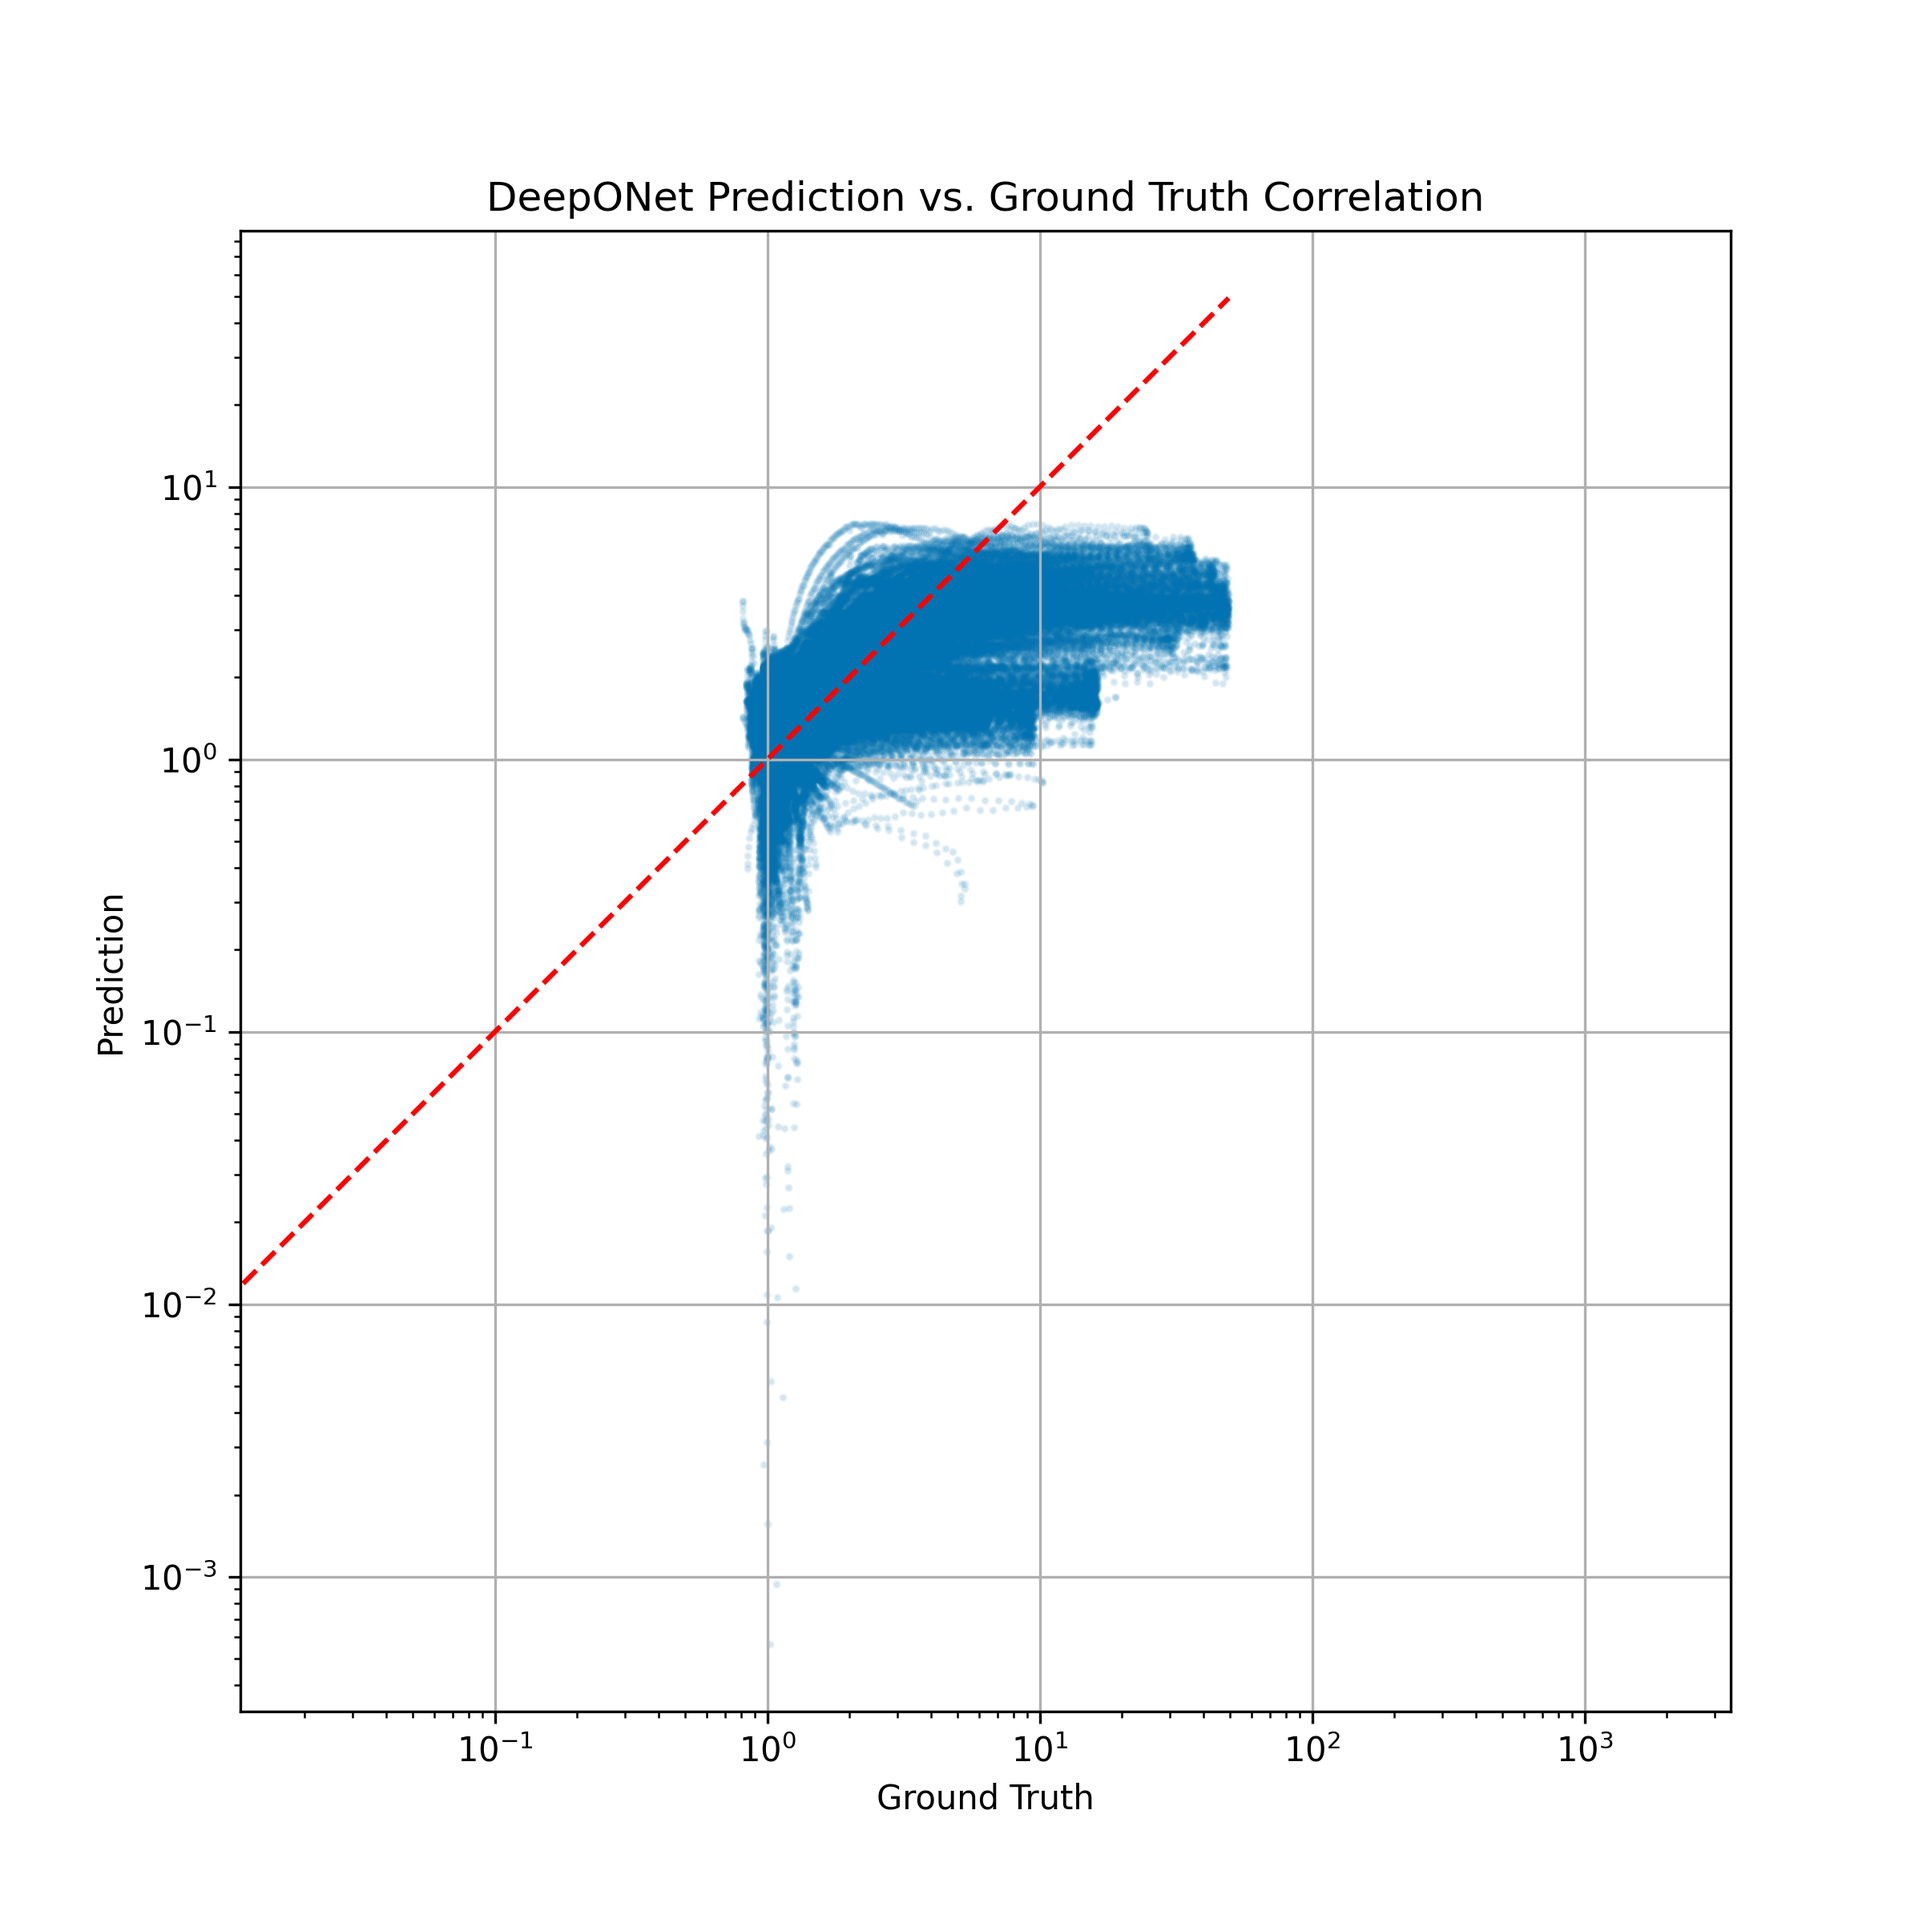
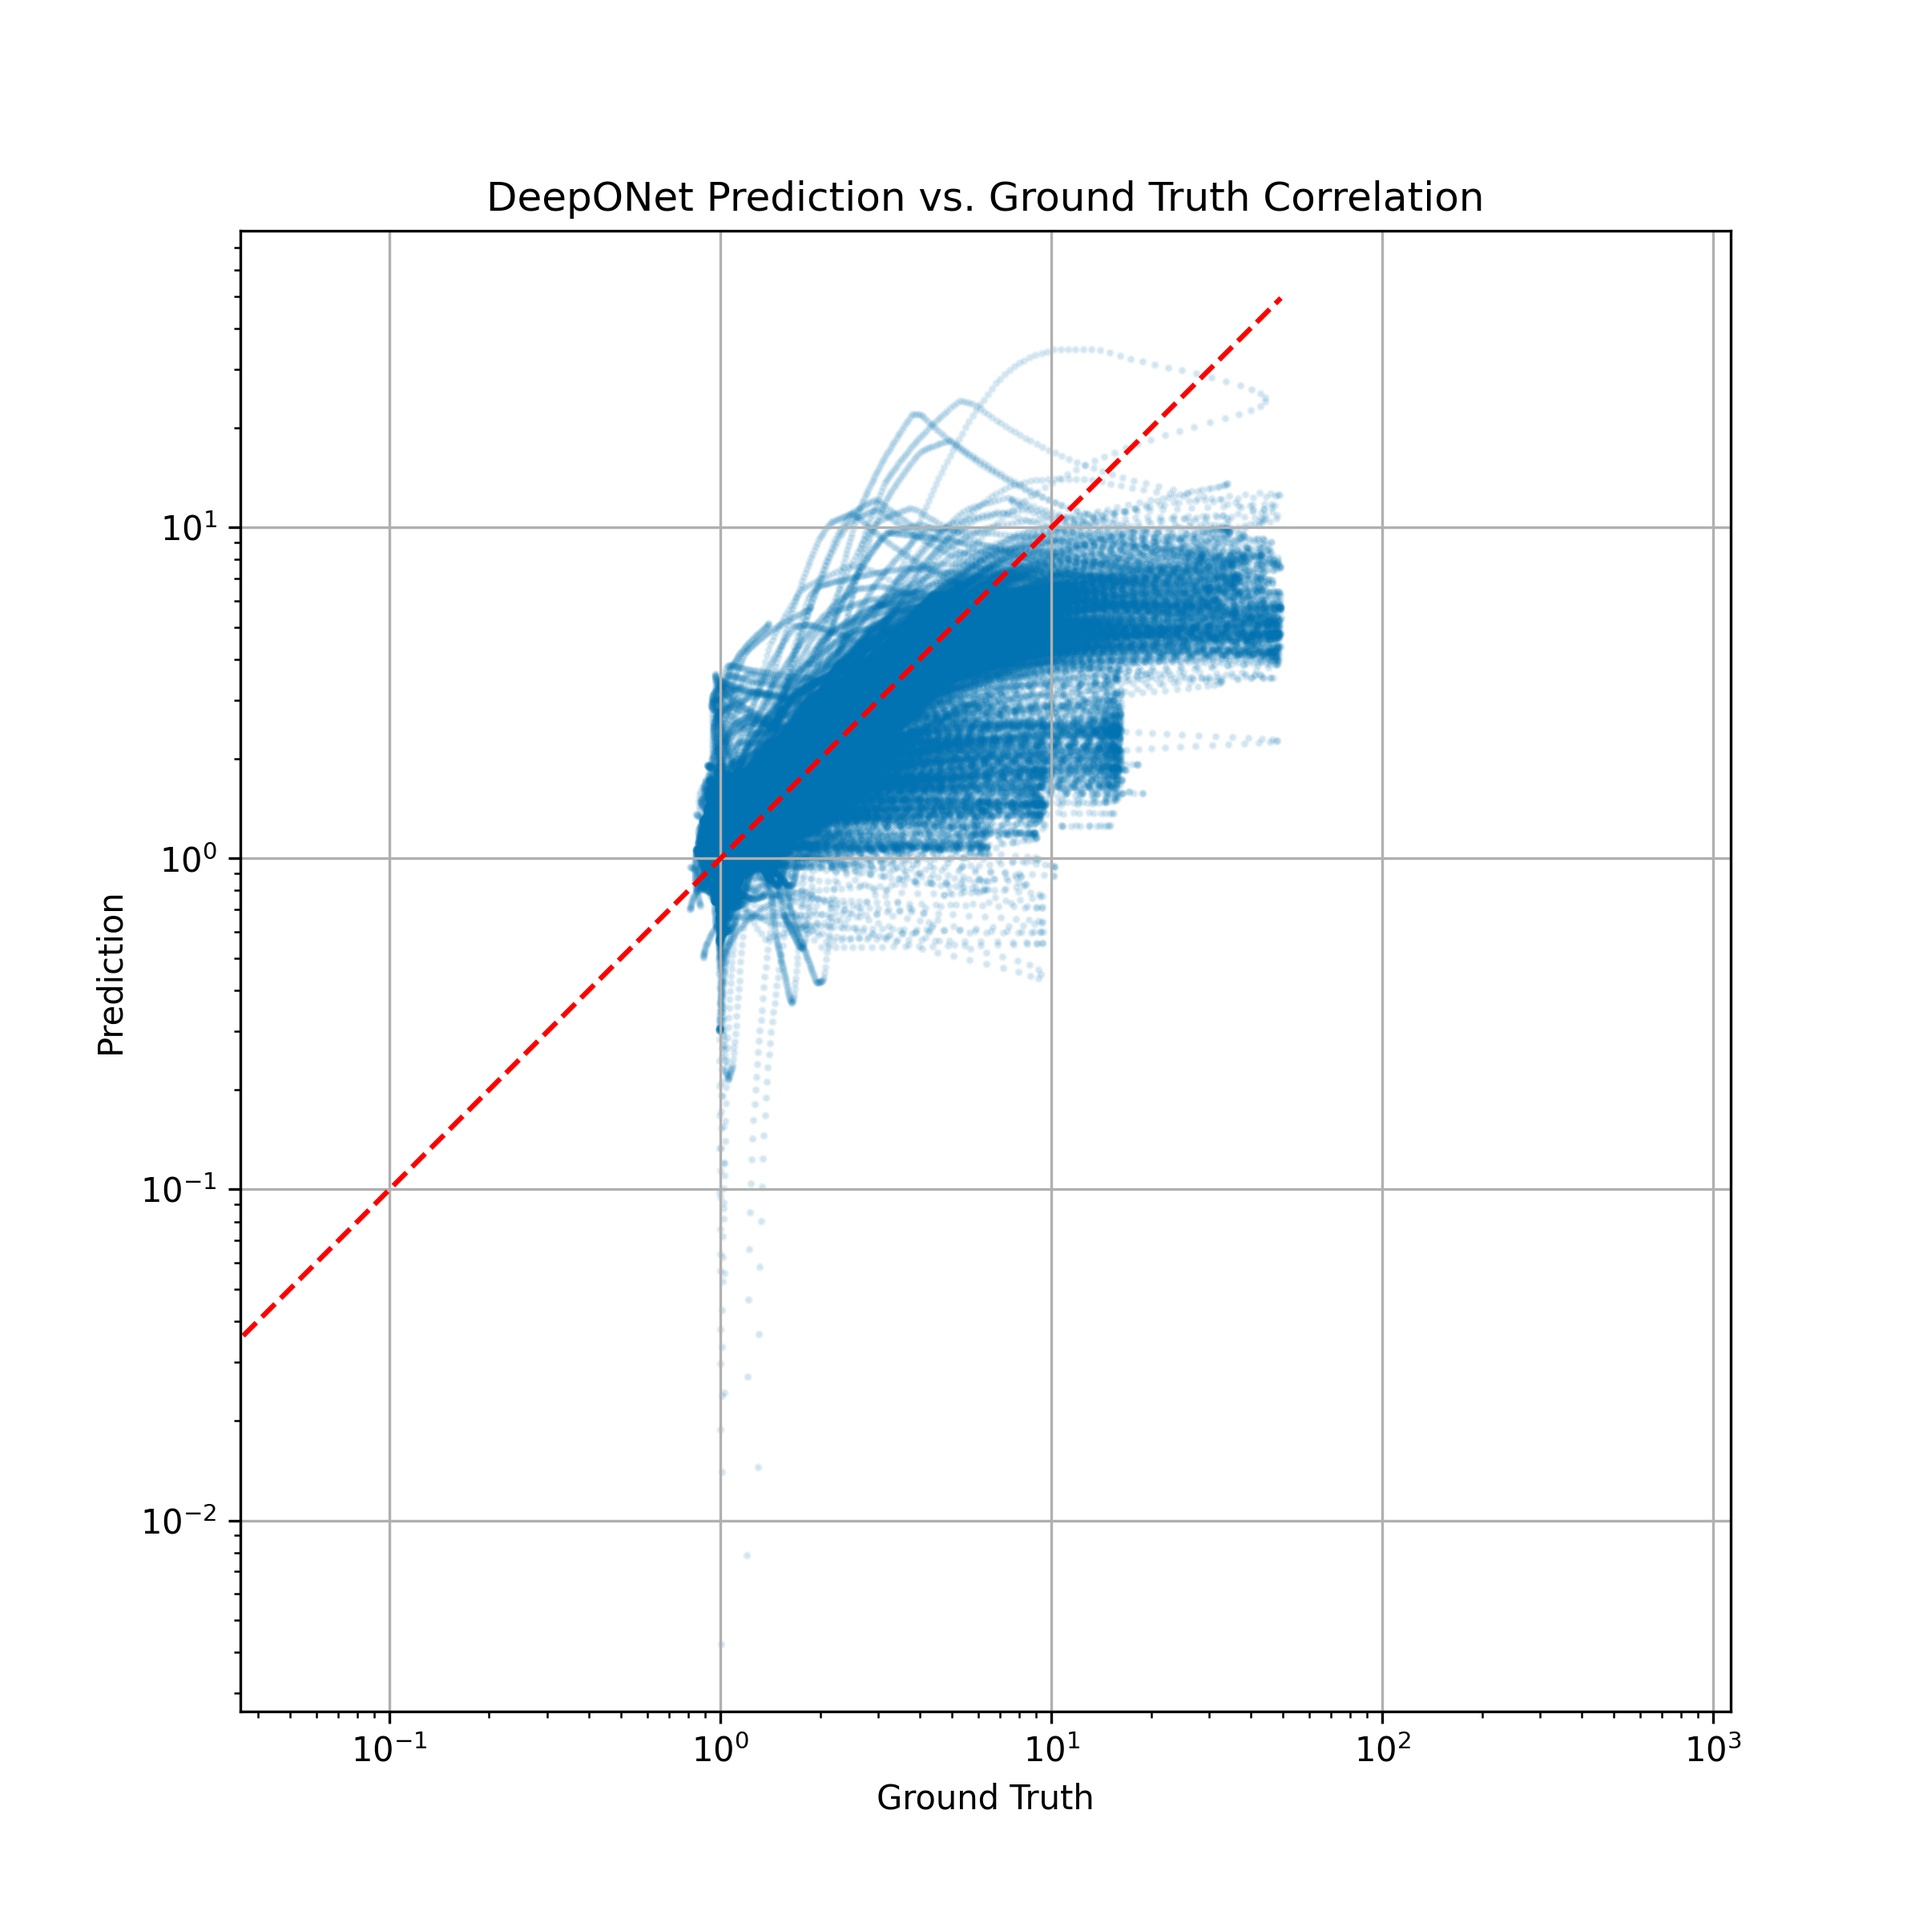
feat: Add ArcsinhScaler for data preprocessing; enhance evaluation metrics with Pearson correlation; update model training and evaluation flow

diff --git a/wave_surrogate/models/fno/evaluate.py b/wave_surrogate/models/fno/evaluate.py
@@ -14,7 +14,7 @@ from wave_surrogate.logging_setup import setup_logging
 logger = setup_logging()
 
 
-def evaluate_model(test_loader, freq_data):
+def evaluate_model(test_loader, freq_data, run=None):
     """Evaluates the model and generates plots."""
     encoder = Encoder(
         channels=config.ENCODER_CHANNELS,
@@ -51,14 +51,83 @@ def evaluate_model(test_loader, freq_data):
             all_inputs.append(inputs.cpu().numpy())
 
     test_loss /= len(test_loader.dataset)
-    logger.info(f"Test MSE Loss: {test_loss:.6f}")
 
     # Concatenate results from all batches
     all_predictions = np.vstack(all_predictions)
     all_targets = np.vstack(all_targets)
     all_inputs = np.vstack(all_inputs)
 
+    ## Compute Pearson correlation coefficient
+    pearson_corrs = [
+        np.corrcoef(all_targets[i], all_predictions[i])[0, 1]
+        for i in range(len(all_targets))
+    ]
+    mean_pearson = np.nanmean(pearson_corrs)
+
+    if run is not None:
+        run.log(
+            {
+                "test_mse_loss": test_loss,
+                "test_MAE_loss": np.mean(np.abs(all_targets - all_predictions)),
+                "test_R2_score": 1
+                - (
+                    np.sum((all_targets - all_predictions) ** 2)
+                    / np.sum((all_targets - np.mean(all_targets)) ** 2)
+                ),
+            }
+        )
+        run.log(
+            {
+                "mean_pearson_correlation": mean_pearson,
+                "median_pearson_correlation": np.nanmedian(pearson_corrs),
+                "std_pearson_correlation": np.nanstd(pearson_corrs),
+                "min_pearson_correlation": np.nanmin(pearson_corrs),
+                "max_pearson_correlation": np.nanmax(pearson_corrs),
+            }
+        )
+    logger.info(f"Test MSE Loss: {test_loss:.6f}")
+    logger.info(f"Mean Pearson Correlation: {mean_pearson:.4f}")
+
     # Generate plots
-    plot_predictions(freq_data, all_targets, all_predictions, all_inputs)
-    plot_correlation(all_targets, all_predictions)
-    plot_pearson_histogram(all_targets, all_predictions)
+    plot_predictions(
+        freq_data,
+        all_targets,
+        all_predictions,
+        all_inputs,
+        correlation_array=pearson_corrs,
+        save_path=config.RESULTS_SAVE_PATH,
+    )
+    plot_correlation(
+        all_targets,
+        all_predictions,
+        save_path=config.RESULTS_SAVE_PATH,
+    )
+    plot_pearson_histogram(
+        all_targets,
+        all_predictions,
+        save_path=config.RESULTS_SAVE_PATH,
+    )
+
+
+if __name__ == "__main__":
+    # Example usage (requires data loaders and frequency data)
+    import pickle
+
+    from data_loader import get_data_loaders
+
+    with open(config.TTF_PICKLE_PATH, "rb") as f:
+        ttf_data = np.array(pickle.load(f))
+
+    with open(config.VS_PICKLE_PATH, "rb") as f:
+        vs_profiles = np.array(pickle.load(f))
+
+    freq_data = np.genfromtxt(config.FREQ_PATH, delimiter=",")
+
+    # Convert numpy arrays to lists for the data loader
+    vs_list = [arr for arr in vs_profiles]
+    ttf_list = [arr for arr in ttf_data]
+
+    _, _, test_loader = get_data_loaders(vs_list, ttf_list, config.BATCH_SIZE)
+
+    evaluate_model(test_loader, freq_data)
+    pass

diff --git a/experiments/Multi-Input Operator/data_loader.py b/experiments/Multi-Input Operator/data_loader.py
@@ -17,7 +17,6 @@ import config
 import numpy as np
 import torch
 from joblib import dump as joblib_dump
-from sklearn.preprocessing import MinMaxScaler
 from torch.utils.data import DataLoader, Dataset, random_split
 
 from wave_surrogate.logging_setup import setup_logging
@@ -33,6 +32,33 @@ def pad_array(arr: np.ndarray, max_len: int) -> np.ndarray:
     out = np.zeros(max_len, dtype=float)
     out[: len(arr)] = arr
     return out
+
+
+class ArcsinhScaler:
+    """
+    Custom scaler that applies arcsinh transformation followed by MinMax scaling.
+    This is useful for data with a wide dynamic range including negative values.
+    """
+
+    def __init__(self):
+        self.fitted = False
+
+    def fit(self, data: np.ndarray):
+        """Fit the scaler on the provided data."""
+        self.fitted = True
+        return self
+
+    def transform(self, X: np.ndarray) -> np.ndarray:
+        """Apply arcsinh transformation followed by MinMax scaling."""
+        if not self.fitted:
+            raise RuntimeError("Scaler has not been fitted")
+        return np.arcsinh(X)
+
+    def inverse_transform(self, data: np.ndarray) -> np.ndarray:
+        """Inverse transform the data back to original scale."""
+        if not self.fitted:
+            raise RuntimeError("Scaler has not been fitted")
+        return np.sinh(data)
 
 
 class DeepONetDataset(Dataset):
@@ -150,7 +176,7 @@ def get_data_loaders(
     train_indices = train_subset.indices
     train_ttf_arr = full_ttf_arr[train_indices]
 
-    scaler = MinMaxScaler()
+    scaler = ArcsinhScaler()
     scaler.fit(train_ttf_arr)  # scales each column (frequency) across samples
 
     # Transform all data

diff --git a/wave_surrogate/models/fno/config.py b/wave_surrogate/models/fno/config.py
@@ -1,6 +1,8 @@
 # config.py
 """Centralized configuration for the FNO model."""
 
+from pathlib import Path
+
 import torch
 
 # --- Data Configuration ---
@@ -9,6 +11,8 @@ VS_PICKLE_PATH = "data/1D Profiles/TF_HLC/Vs_values_1000.pt"
 TTF_PICKLE_PATH = "data/1D Profiles/TF_HLC/TTF_data_1000.pt"
 FREQ_PATH = "data/1D Profiles/TF_HLC/TTF_freq_1000.csv"
 MODEL_SAVE_PATH = "outputs/models/Soil_Bedrock/best_fno_ttf_model.pt"
+RESULTS_SAVE_PATH = "outputs/figures/model"
+Path(RESULTS_SAVE_PATH).mkdir(parents=True, exist_ok=True)
 
 # --- Data Preprocessing ---
 F0_FILTER_THRESHOLD = 2.0  # Filter out profiles with f0 >= this value

diff --git a/wave_surrogate/models/fno/utils.py b/wave_surrogate/models/fno/utils.py
@@ -48,6 +48,7 @@ def plot_predictions(
     test_targets,
     test_predictions,
     test_inputs,
+    correlation_array,
     num_plots=9,
     title_prefix="",
     save_path=None,
@@ -87,7 +88,9 @@ def plot_predictions(
             vs1, vs2 = (0.0, 0.0)
 
         h_soil = max((len(vs_test) - 1) * 5, 0)
-        plt.title(f"Vs1={vs1:.1f}, Vs2={vs2:.1f}, h={h_soil:.0f}m")
+        plt.title(
+            f"Vs1={vs1:.1f}, Vs2={vs2:.1f}, h={h_soil:.0f}m\n$\\rho$={correlation_array[idx]:.2f}"
+        )
         plt.xscale("log")
         plt.grid(True, which="both", linestyle="--")
         if i == 0:

diff --git a/wave_surrogate/models/fno/train.py b/wave_surrogate/models/fno/train.py
@@ -44,7 +44,7 @@ def train_model(train_loader, val_loader):
         optimizer, "min", patience=80, factor=0.9
     )
 
-    wandb.init(
+    run = wandb.init(
         project=config.WANDB_PROJECT,
         name=config.WANDB_RUN_NAME,
         config={k: v for k, v in vars(config).items() if k.isupper()},
@@ -111,5 +111,7 @@ def train_model(train_loader, val_loader):
             logger.info(f"Early stopping triggered at epoch {epoch + 1}")
             break
 
-    wandb.finish()
+    # wandb.finish()
     logger.info(f"Finished training. Best validation loss: {best_val_loss:.6f}")
+
+    return run

diff --git a/wave_surrogate/models/fno/main.py b/wave_surrogate/models/fno/main.py
@@ -52,11 +52,11 @@ def run_pipeline():
 
     # --- Train Model ---
     logger.info("Starting model training...")
-    train_model(train_loader, val_loader)
+    run = train_model(train_loader, val_loader)
 
     # --- Evaluate Model ---
     logger.info("Starting model evaluation...")
-    evaluate_model(test_loader, freq_data)
+    evaluate_model(test_loader, freq_data, run=run)
 
 
 if __name__ == "__main__":
